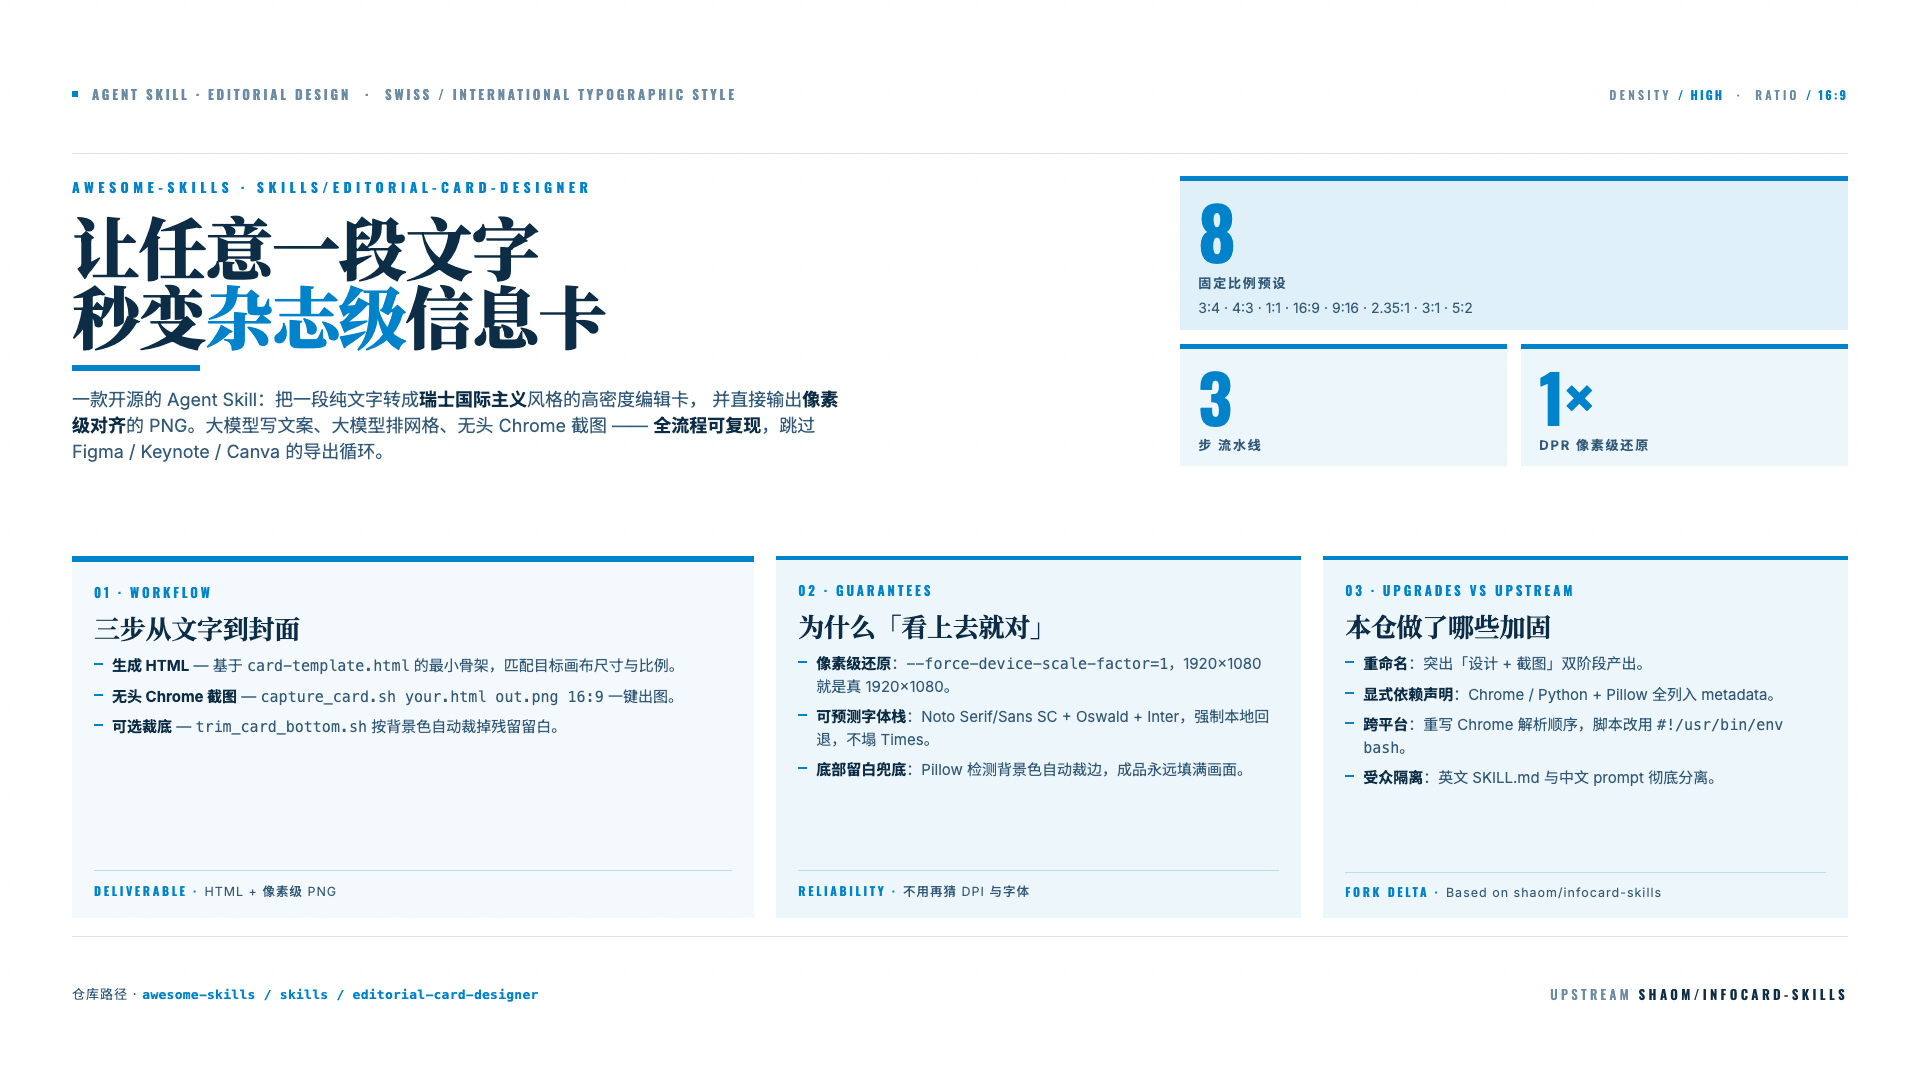
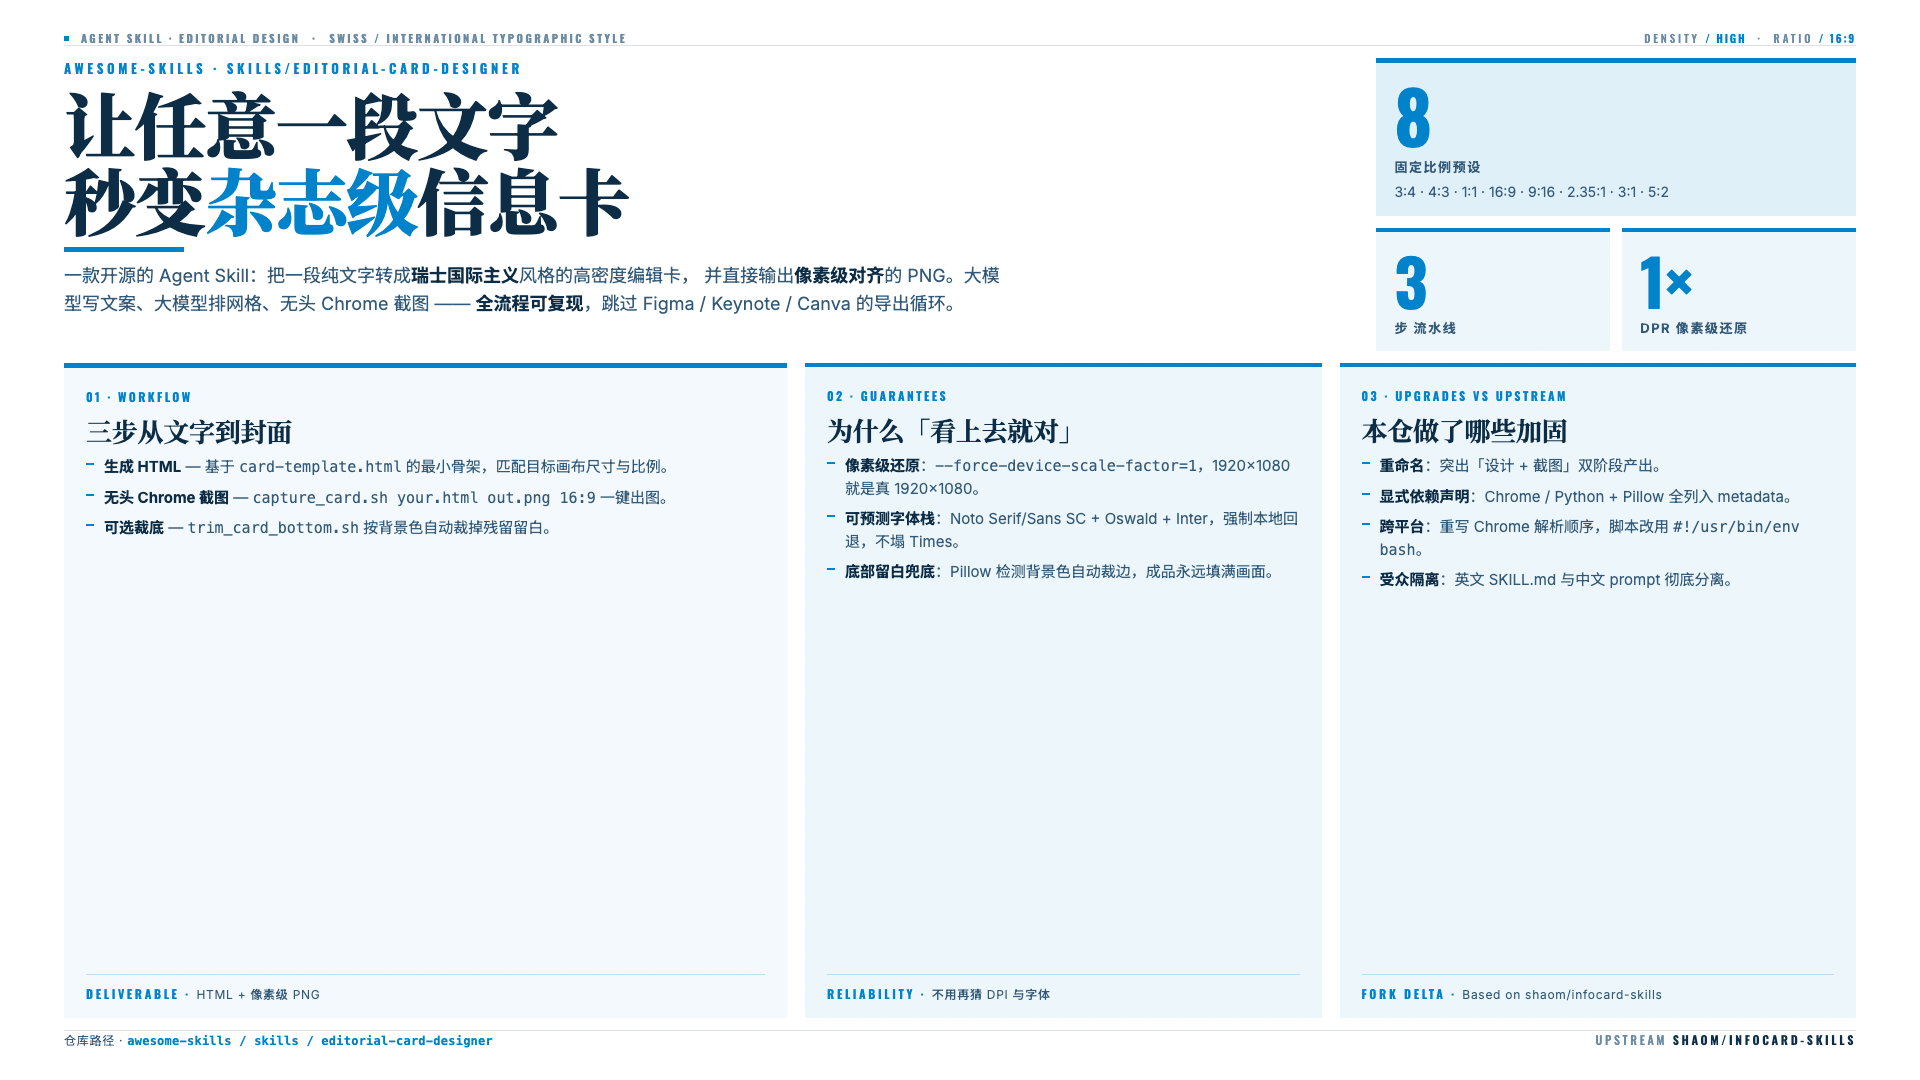
docs(editorial-card): polish intro article and regenerate example
- Rewrite title to be hook-driven and result-oriented
- Open with '先看效果' showing the PNG before explaining
- Tighten pain-point loop into a punchy sentence
- Strengthen CTA with low-barrier git clone command
- Promote repo path and upstream acknowledgment with hr rule
- Scale HTML layout to fully fill 1920x1080 canvas
- Regenerate PNG with new layout

diff --git a/examples/editorial-card-designer/editorial-card-designer-intro.html b/examples/editorial-card-designer/editorial-card-designer-intro.html
@@ -47,11 +47,11 @@
         width: 100%;
         height: 100%;
         background: var(--paper);
-        padding: 48px 72px 40px;
+        padding: 32px 64px 32px;
         overflow: hidden;
         display: grid;
-        grid-template-rows: auto auto auto auto;
-        row-gap: 18px;
+        grid-template-rows: auto auto 1fr auto;
+        row-gap: 12px;
       }
 
       .card::before {
@@ -71,62 +71,63 @@
         display: flex;
         justify-content: space-between;
         align-items: center;
-        padding-bottom: 12px;
+        height: 14px;
         border-bottom: 1px solid var(--rule);
       }
 
       .meta-tags {
         display: flex;
-        gap: 14px;
+        gap: 12px;
         align-items: center;
         font-family: "Oswald", "Inter", sans-serif;
-        font-size: 13px;
+        font-size: 11px;
         font-weight: 700;
         letter-spacing: 0.22em;
         text-transform: uppercase;
         color: var(--muted);
+        line-height: 1;
       }
 
       .meta-tags .dot {
-        width: 6px;
-        height: 6px;
+        width: 5px;
+        height: 5px;
         background: var(--accent);
         display: inline-block;
       }
 
       .meta-right {
         font-family: "Oswald", "Inter", sans-serif;
-        font-size: 12px;
-        letter-spacing: 0.28em;
+        font-size: 11px;
+        letter-spacing: 0.26em;
         text-transform: uppercase;
         color: var(--muted);
+        line-height: 1;
       }
 
       .meta-right b {
         color: var(--accent);
         font-weight: 700;
-        letter-spacing: 0.18em;
+        letter-spacing: 0.16em;
       }
 
       /* ========= HERO ========= */
       .hero {
         display: grid;
-        grid-template-columns: 1.35fr 0.85fr;
+        grid-template-columns: 1.45fr 0.55fr;
         column-gap: 48px;
         align-items: start;
-        padding-top: 4px;
       }
 
       .hero-left {
         display: grid;
-        row-gap: 14px;
+        row-gap: 8px;
       }
 
       .kicker {
         font-family: "Oswald", "Inter", sans-serif;
-        font-size: 14px;
+        font-size: 13px;
         font-weight: 700;
-        letter-spacing: 0.32em;
+        letter-spacing: 0.28em;
         text-transform: uppercase;
         color: var(--accent);
         margin: 0;
@@ -135,9 +136,9 @@
       .title {
         margin: 0;
         font-family: "Noto Serif SC", "Source Han Serif SC", serif;
-        font-weight: 900;
-        font-size: 68px;
-        line-height: 1.02;
+        font-weight: 1000;
+        font-size: 72px;
+        line-height: 1.05;
         letter-spacing: -0.02em;
         color: var(--ink);
       }
@@ -148,18 +149,18 @@
       }
 
       .bar {
-        width: 128px;
-        height: 6px;
+        width: 120px;
+        height: 5px;
         background: var(--accent);
-        margin: 2px 0 2px;
+        margin: 2px 0;
       }
 
       .deck {
         margin: 0;
         font-size: 18px;
-        line-height: 1.45;
+        line-height: 1.55;
         color: var(--sub);
-        max-width: 780px;
+        max-width: 940px;
       }
 
       .deck b {
@@ -167,28 +168,29 @@
         font-weight: 700;
       }
 
-      /* ========= HERO RIGHT: STAT CLUSTER ========= */
+      /* ========= STAT CLUSTER ========= */
       .stat-cluster {
         display: grid;
         grid-template-columns: 1fr 1fr;
-        gap: 14px;
+        gap: 12px;
       }
 
       .stat {
-        padding: 14px 18px 12px;
+        padding: 16px 18px 14px;
         background: var(--tint);
-        border-top: 5px solid var(--accent);
+        border-top: 4px solid var(--accent);
       }
 
       .stat.big {
         grid-column: span 2;
         background: var(--tint-strong);
+        border-top-width: 5px;
       }
 
       .stat-num {
         font-family: "Oswald", "Inter", sans-serif;
         font-weight: 700;
-        font-size: 66px;
+        font-size: 64px;
         line-height: 1;
         color: var(--accent);
         letter-spacing: -0.02em;
@@ -201,7 +203,7 @@
       .stat-label {
         margin-top: 6px;
         font-size: 13px;
-        letter-spacing: 0.14em;
+        letter-spacing: 0.12em;
         text-transform: uppercase;
         color: var(--sub);
         font-weight: 700;
@@ -217,23 +219,25 @@
       /* ========= MODULES ========= */
       .modules {
         display: grid;
-        grid-template-columns: 1.3fr 1fr 1fr;
-        column-gap: 22px;
+        grid-template-columns: 1.4fr 1fr 1fr;
+        column-gap: 18px;
         align-items: stretch;
+        min-height: 0;
       }
 
       .mod {
-        padding: 20px 22px 18px;
+        padding: 20px 22px 16px;
         border-top: 4px solid var(--accent);
         background: var(--tint);
         display: flex;
         flex-direction: column;
         gap: 10px;
+        overflow: hidden;
       }
 
       .mod.primary {
         background: #f4f9fd;
-        border-top-width: 6px;
+        border-top-width: 5px;
       }
 
       .mod-hint {
@@ -250,17 +254,17 @@
 
       .mod-hint span {
         color: var(--sub);
-        letter-spacing: 0.08em;
+        letter-spacing: 0.06em;
         text-transform: none;
         font-weight: 500;
         font-family: "Inter", "Noto Sans SC", sans-serif;
-        font-size: 12.5px;
+        font-size: 12px;
       }
 
       .mod-index {
         font-family: "Oswald", "Inter", sans-serif;
-        font-size: 13px;
-        letter-spacing: 0.22em;
+        font-size: 12px;
+        letter-spacing: 0.2em;
         color: var(--accent);
         font-weight: 700;
         text-transform: uppercase;
@@ -278,13 +282,13 @@
 
       .mod-body {
         margin: 0;
-        font-size: 15.5px;
-        line-height: 1.55;
+        font-size: 14.5px;
+        line-height: 1.5;
         color: var(--sub);
       }
 
       .mod ul {
-        margin: 2px 0 0;
+        margin: 0;
         padding: 0;
         list-style: none;
         display: grid;
@@ -303,8 +307,8 @@
         content: "";
         position: absolute;
         left: 0;
-        top: 8px;
-        width: 9px;
+        top: 7px;
+        width: 8px;
         height: 2px;
         background: var(--accent);
       }
@@ -319,10 +323,10 @@
         display: flex;
         justify-content: space-between;
         align-items: center;
-        padding-top: 10px;
+        height: 18px;
         border-top: 1px solid var(--rule);
-        font-size: 13px;
-        letter-spacing: 0.08em;
+        font-size: 12px;
+        letter-spacing: 0.06em;
         color: var(--muted);
       }
 
@@ -340,7 +344,7 @@
       .footer .right {
         font-family: "Oswald", "Inter", sans-serif;
         text-transform: uppercase;
-        letter-spacing: 0.26em;
+        letter-spacing: 0.22em;
         color: var(--muted);
       }
 
@@ -387,7 +391,7 @@
         <header class="header">
           <div class="meta-tags">
             <span class="dot"></span>
-            <span>AGENT&nbsp;SKILL · EDITORIAL&nbsp;DESIGN</span>
+            <span>Agent&nbsp;Skill · Editorial&nbsp;Design</span>
             <span>·</span>
             <span>Swiss / International Typographic Style</span>
           </div>

diff --git a/examples/editorial-card-designer/editorial-card-designer-intro.md b/examples/editorial-card-designer/editorial-card-designer-intro.md
@@ -1,19 +1,18 @@
-# 让任意一段文字秒变杂志级信息卡 —— 认识 `editorial-card-designer`
+# 告别 Figma 手动排版：一句命令，让文字秒变杂志级封面
 
 > 一款开源的 Agent Skill：把一段纯文字转成瑞士国际主义风格的高密度编辑卡，并直接输出像素级对齐的 PNG。
 
-## 为什么还需要一款「信息卡生成器」？
+## 先看效果
 
-如果你在运营公众号、维护技术博客，或者每周都要交付产品演示图，大概率都踩过这个循环：
+下面这张信息卡，从纯文字到成品，只花了一条命令的时间。排版、字体、网格全部自动完成，没有打开任何设计软件。
 
-1. 认真打磨一段精炼的文字。
-2. 打开 Figma / Keynote / Canva。
-3. 跟网格、字体、导出分辨率较劲半小时。
-4. 最后得到的封面，还是「差了点意思」。
+![editorial-card-designer-intro.png](./editorial-card-designer-intro.png)
+
+如果你在运营公众号、维护技术博客，或者每周都要交付产品演示图，大概率都踩过这个循环：打开 Figma，调网格、换字体、折腾导出分辨率。半小时后，封面还是差点意思。
 
 [`editorial-card-designer`](https://github.com/ForceInjection/awesome-skills/tree/main/skills/editorial-card-designer) 技能 —— 收录于 [`awesome-skills`](https://github.com/ForceInjection/awesome-skills) 仓库 —— 把整套流程压缩成**一条命令**，同时强制让产出符合**现代杂志编辑设计（Editorial Design）**与**瑞士国际主义平面设计风格（Swiss / International Typographic Style）**的视觉语言。
 
-换句话说：大模型写文案、大模型排网格、无头 Chrome 截图 —— 全流程可复现。
+大模型写文案、大模型排网格、无头 Chrome 截图 —— 全流程可复现。
 
 ## 它到底做了什么？
 
@@ -48,7 +47,7 @@
 默认字体栈将 `Noto Serif SC` / `Noto Sans SC`（中文正文）与 `Oswald` / `Inter`（拉丁展示字 + UI）组合使用，统一来自 Google Fonts。**同时强制声明本地回退字体栈**，所以即便网络抖动，也不会让你的版式悄悄塌回 Times New Roman。
 
 **3. 底部留白兜底。**
-偶尔会出现网格在 PNG 底部留下一条浅色空白条。可选的后处理脚本 [`scripts/trim_card_bottom.sh`](https://github.com/ForceInjection/awesome-skills/tree/main/skills/editorial-card-designer/scripts/trim_card_bottom.sh)（依赖 Python + Pillow）会按背景色检测并自动裁切多余底边 —— 最终成品永远填满画面。
+由于无头 Chrome 的字体渲染与常规浏览器存在细微差异，页脚偶尔会被裁出视口。`capture_card.sh` 内部已预留 120px 高度缓冲确保完整捕获；后处理脚本 [`scripts/trim_card_bottom.sh`](https://github.com/ForceInjection/awesome-skills/tree/main/skills/editorial-card-designer/scripts/trim_card_bottom.sh)（依赖 Python + Pillow）再按固定像素 `--bottom 120` 精确裁回目标尺寸 —— 最终成品永远填满画面。
 
 ## 三步工作流
 
@@ -57,13 +56,14 @@
 #        （例如 16:9 对应 1920×1080）。从 assets/card-template.html 的
 #        最小骨架开始，填入标题、摘要、模块与页脚条带。
 
-# 步骤 2：用无头 Chrome 截图
+# 步骤 2：用无头 Chrome 截图（脚本内部已预留 120px 高度缓冲，防止字体渲染差异导致页脚被裁）
 ./skills/editorial-card-designer/scripts/capture_card.sh \
     path/to/your-card.html path/to/your-card.png 16:9
 
-# 步骤 3（可选）：兜底裁剪底部残留留白
+# 步骤 3（推荐）：按固定像素裁掉 120px 底部缓冲，恢复精确目标尺寸
+#        —— 若跳过此步，成品高度将为目标值 +120px（例如 1920×1200）。
 ./skills/editorial-card-designer/scripts/trim_card_bottom.sh \
-    path/to/your-card.png path/to/your-card.trimmed.png
+    path/to/your-card.png path/to/your-card.trimmed.png --bottom 120
 ```
 
 整条流水线到此结束。没有设计工具、没有手动导出对话框、不用再猜 DPI。
@@ -82,7 +82,7 @@
 为了让新用户在动手前先「看见」产出的形态，本仓库在 [`examples/editorial-card-designer/`](https://github.com/ForceInjection/awesome-skills/tree/main/examples/editorial-card-designer) 下沉淀了一份完整示例：
 
 - [`editorial-card-designer-intro.html`](./editorial-card-designer-intro.html) —— 完整源 HTML，可直接在浏览器中打开，也可以 fork 一份二次调样式。
-- [`editorial-card-designer-intro.png`](./editorial-card-designer-intro.png) —— 用 `capture_card.sh` 渲染出的 1920×1080 PNG 成品。
+- [`editorial-card-designer-intro.png`](./editorial-card-designer-intro.png) —— 先用 `capture_card.sh` 截图、再经 `trim_card_bottom.sh --bottom 120` 裁剪得到的 1920×1080 PNG 成品。
 
 源文本是哪段？正是本文件本身。一段关于 `editorial-card-designer` 技能的介绍文字，被技能转换成了一张可扫视、网格驱动的 16:9 封面 —— 用技能的产出物来介绍技能自己。
 
@@ -95,7 +95,17 @@
 - **技术写作者**：需要给长文配上图解式开场图。
 - **任何构建 Agent 流水线的人**：你的交付物不只是文字，还包含图像。
 
-克隆仓库，把 Agent 指向 `editorial-card-designer/SKILL.md`，让它专注地替你做好这件原本要吞掉半个下午的事。
+花 5 分钟试一试：
 
-> **仓库路径：** `awesome-skills` → `skills/editorial-card-designer/`
-> **上游致谢：** [`shaom/infocard-skills`](https://github.com/shaom/infocard-skills)
+```bash
+git clone https://github.com/ForceInjection/awesome-skills.git
+cd awesome-skills/skills/editorial-card-designer
+```
+
+然后让 Agent 读取 `SKILL.md`，你会立刻理解本文的每一段描述。
+
+---
+
+**仓库路径** `awesome-skills` → `skills/editorial-card-designer/`
+
+**上游致谢** [`shaom/infocard-skills`](https://github.com/shaom/infocard-skills)
